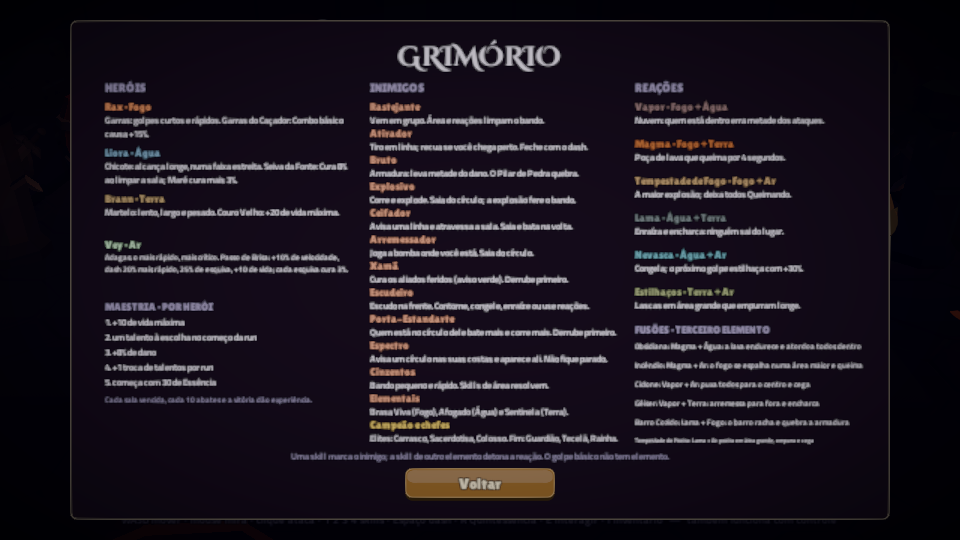
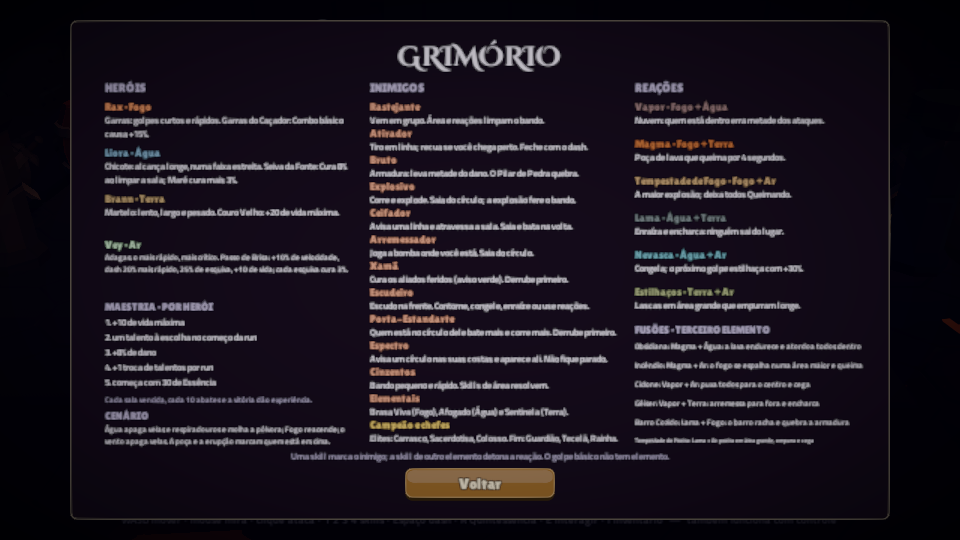
Grimório: bloco Cenário sob a maestria (Água apaga e molha, Fogo reacende, vento apaga vela, poça e erupção marcam), para quem procura as regras no manual

Changed region(s): [[0.0938, 0.7407, 0.375, 0.8296], [0.9688, 0.563, 1.0, 0.6222], [0.9062, 0.3852, 0.9375, 0.4148]]

diff --git a/docs/progresso.html b/docs/progresso.html
@@ -62,6 +62,7 @@
     <h2>Rodada 22: Explosivo mais justo e a Elite diz o que tem</h2>
     <div class="meta"><span class="tag who">Enzo</span><span class="tag who">Leonardo</span><span class="tag who">Miguel</span><span class="tag ok">crítico de legibilidade dos inimigos (prints e fichas), votado pelos três críticos</span></div>
     <ul>
+      <li><b>Grimório com o cenário:</b> o jogador e o cético perguntaram como alguém descobre essas regras. O Grimório ganhou o bloco CENÁRIO sob a maestria: "Água apaga velas e respiradouros e molha a pólvora; Fogo reacende; o vento apaga velas. A poça e a erupção marcam quem está em cima."<br><img src="img/grimorio.png" alt="Grimório com o bloco Cenário" style="max-width:100%"></li>
       <li><b>Rodada 31, o respiradouro entra nas reações (4 pontos, sem veto):</b> a erupção queimava os inimigos em cima mas não deixava marca, então para Brann e Vey o respiradouro era só perigo. Agora quem sobrevive à erupção fica com a marca de Fogo, como a poça d'água marca com Água: Terra nele vira Magma, Água vira Vapor, Ar vira Tempestade de Fogo. Atrair o bando para o respiradouro vale para todo herói. As condições do cético entraram: a erupção só marca quem está sem marca (não renova nem troca a de ninguém, para não virar reação em laço a cada 4,5 s) e não marca quem é de Fogo (Brasa Viva); a sonda com os quatro heróis foi rodada depois.</li>
       <li><b>Rodada 30, o vento apaga vela (6 pontos):</b> Fogo e Água mexiam no cenário, Terra e Ar quase nada. Agora a skill de Ar do Vey apaga as velas em volta, como soprar (mesma troca de malha acesa/apagada do pack e fiapo de fumaça, com o som do vento); as tochas grandes da parede continuam acesas, e o Fogo reacende tudo. É sabor, sem efeito na luta, como a Água nas velas. Descartado: Terra tampando o respiradouro (3 pontos; o cético: seria a Água com outra cor).</li>
       <li><b>Rodada 29, Água molha a pólvora (4 pontos, sem veto):</b> Água já apagava velas e respiradouros, mas o barril de pólvora explodia igual com ela. Agora a skill de Água deixa o barril molhado por 6 s: madeira azulada e escura, sem a faixa escura do alcance no chão, "MOLHADO" com gotas e um chiado; o golpe seguinte só quebra o barril (vapor e lascas, sem explosão, sem acender o vizinho). O golpe básico não tem elemento, então a Liora ainda escolhe: skill desarma o barril perto dela, golpe básico explode nos inimigos. As condições do cético entraram (molhado visível, não só escuro; o golpe no barril molhado tem resposta). Descartado: Ar empurrando o barril (3 pontos; o professor: fora da rubrica e risco em colisão).<br><img src="img/s18_barril_molhado.jpg" alt="Barril molhado (azulado, sem a faixa do alcance) ao lado de um barril seco" style="max-width:100%"></li>

diff --git a/Assets/Game/UI/TitleMenu.cs b/Assets/Game/UI/TitleMenu.cs
@@ -293,6 +293,10 @@ namespace Quintessence.UI
             }, 74);
             UiKit.Text(UiKit.Rect("Hint", box, new Vector2(0.5f, 0), new Vector2(0, 112), new Vector2(1500, 30)),
                 "Uma skill marca o inimigo; a skill de outro elemento detona a reação. O golpe básico não tem elemento.", 20, UiKit.Dim, TextAnchor.MiddleCenter, false);
+            // o cenario tambem entra no jogo dos elementos (rodadas 21, 29-31): no espaco livre sob a maestria
+            UiKit.Text(UiKit.Rect("SceneryH", box, top, new Vector2(70, -778), new Vector2(500, 28)), "CENÁRIO", 22, UiKit.Dim, TextAnchor.MiddleLeft);
+            UiKit.Fit(UiKit.Text(UiKit.Rect("Scenery", box, top, new Vector2(70, -806), new Vector2(500, 60)),
+                "Água apaga velas e respiradouros e molha a pólvora; Fogo reacende; o vento apaga velas. A poça e a erupção marcam quem está em cima.", 16, UiKit.Paper, TextAnchor.UpperLeft, false), 14, 16);
             // fusoes: abaixo das reacoes
             UiKit.Text(UiKit.Rect("FusH", box, new Vector2(0, 1), new Vector2(1130, -606), new Vector2(500, 30)), "FUSÕES · TERCEIRO ELEMENTO", 22, UiKit.Dim, TextAnchor.MiddleLeft);
             var fusions = new[] { FusionKind.Obsidian, FusionKind.Wildfire, FusionKind.Cyclone, FusionKind.Geyser, FusionKind.Kiln, FusionKind.DustStorm };
